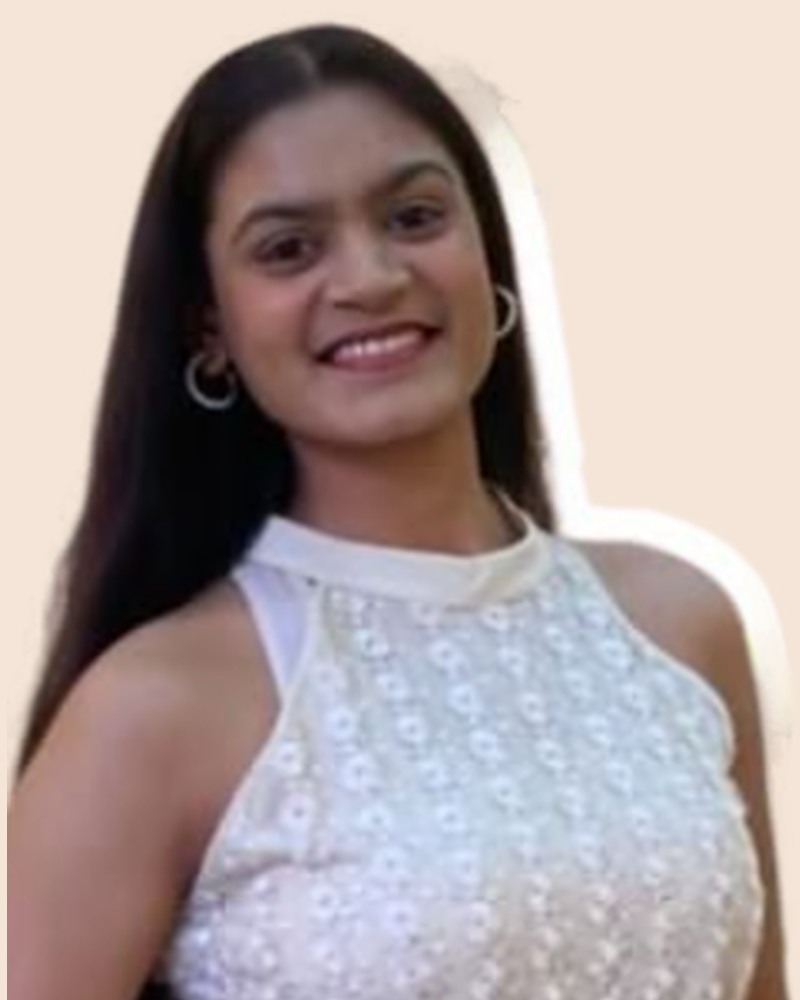
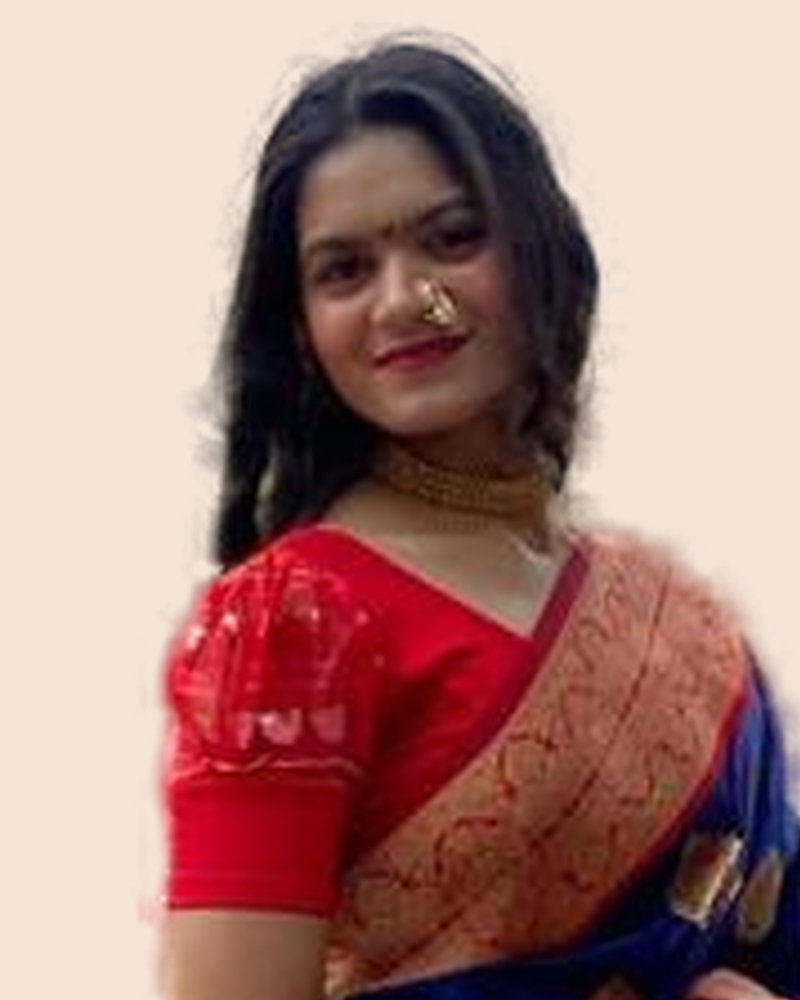
feat(team): add general body tier

diff --git a/src/data/team.data.ts b/src/data/team.data.ts
@@ -250,6 +250,45 @@ const boardMembers: TeamMember[] = [
   },
 ]
 
+// ─── General Body ────────────────────────────────────────────────
+const generalMembers: TeamMember[] = [
+  {
+    id: "gen-1",
+    name: "Reya",
+    role: "General Body Member",
+    tier: "general",
+    initials: "R",
+  },
+  {
+    id: "gen-2",
+    name: "Smit",
+    role: "General Body Member",
+    tier: "general",
+    initials: "S",
+  },
+  {
+    id: "gen-3",
+    name: "Ashrusha",
+    role: "General Body Member",
+    tier: "general",
+    initials: "A",
+  },
+  {
+    id: "gen-4",
+    name: "Manas",
+    role: "General Body Member",
+    tier: "general",
+    initials: "M",
+  },
+  {
+    id: "gen-5",
+    name: "Rohan",
+    role: "General Body Member",
+    tier: "general",
+    initials: "R",
+  },
+]
+
 export const teamTiers: TeamTierGroup[] = [
   {
     number: "01",
@@ -264,5 +303,12 @@ export const teamTiers: TeamTierGroup[] = [
     title: "Board of Directors",
     subtitle: "Driving strategy and direction across all service avenues.",
     members: boardMembers,
+  },
+  {
+    number: "03",
+    tier: "general",
+    title: "General Body",
+    subtitle: "The heart of our club — members making change happen on the ground.",
+    members: generalMembers,
   },
 ]

diff --git a/src/types/content.types.ts b/src/types/content.types.ts
@@ -110,7 +110,7 @@ export interface TeamMember {
   id: string
   name: string
   role: string
-  image: string
+  image?: string
   tier: TeamTier
   initials: string
 }
